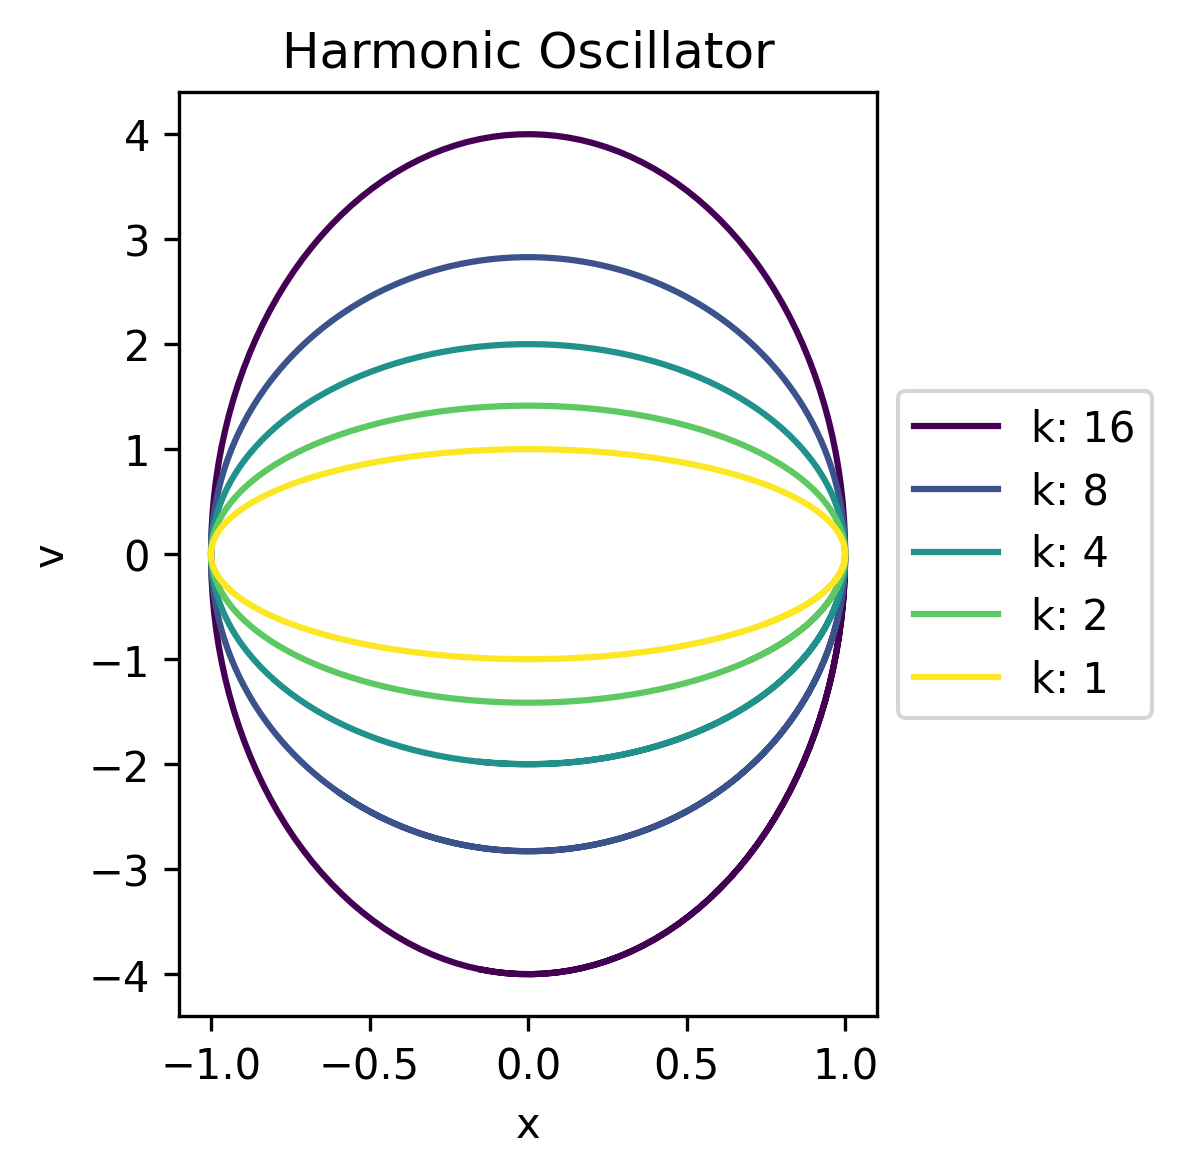
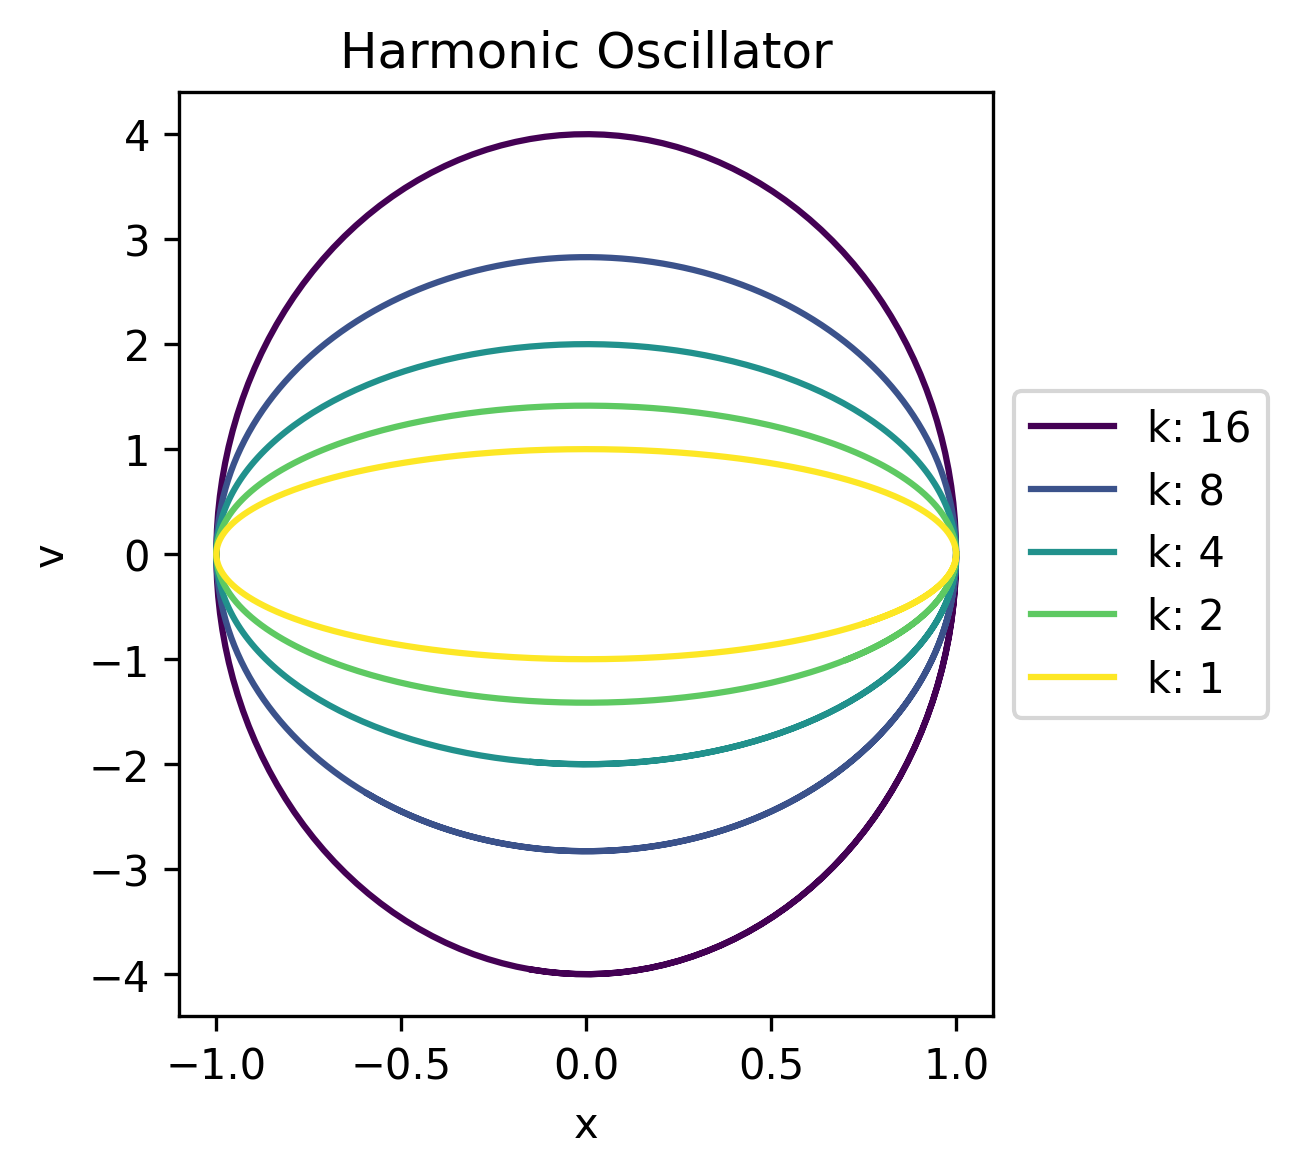
changed plot size of harmonic oscillator

diff --git a/src/visualizations.py b/src/visualizations.py
@@ -282,7 +282,7 @@ def vis_harmonic_oscillator(data_per_k):
             - all_xs (list): List of computed spatial values
             - all_vs (list): List of computed velocities, corresponding with spatial value
     """
-    plt.figure(figsize=(3, 4))
+    plt.figure(figsize=(3.5, 4))
 
     ks = list(data_per_k.keys())
     colours = cm.viridis(np.linspace(0, 1, len(ks)))
@@ -292,7 +292,7 @@ def vis_harmonic_oscillator(data_per_k):
     plt.xlabel("x")
     plt.ylabel("v")
     plt.title("Harmonic Oscillator")
-    plt.legend(loc='center left', bbox_to_anchor=(1, 0.5))
+    plt.legend(loc='center left', bbox_to_anchor=(1, 0.5)) # legend placed outside of plot
     plt.savefig("plots/harmonic_oscillator.png", dpi=300, bbox_inches="tight")
     plt.show()
 
